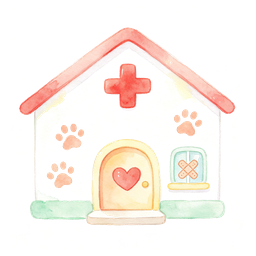
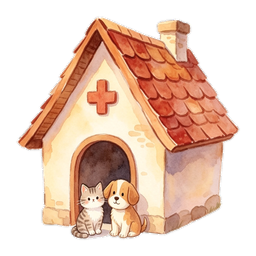
建筑icon重绘(豪宅/商铺/市政厅/医院/花园)对齐工厂小屋风格;套餐栏电脑端两列;河岸放置点避开水域整体上移

diff --git a/index.html b/index.html
@@ -411,7 +411,8 @@
   .shopElCard .infoBtn{position:absolute;bottom:2px;right:2px;width:18px;height:18px;background:var(--solid-panel2);color:var(--gold);border:1px solid var(--gold);border-radius:50%;font-size:10px;cursor:pointer;line-height:1;display:flex;align-items:center;justify-content:center;padding:0;z-index:2;}
   .shopElCard .lockMark{position:absolute;top:2px;right:2px;width:20px;height:20px;font-size:12px;display:flex;align-items:center;justify-content:center;opacity:.75;}
   /* 套餐栏 */
-  .shopBundleGrid{display:grid;grid-template-columns:repeat(auto-fill,minmax(150px,1fr));gap:10px;}
+  .shopBundleGrid{display:grid;grid-template-columns:repeat(2,1fr);gap:10px;}
+  @media(max-width:600px){.shopBundleGrid{grid-template-columns:1fr;}}
   .shopBundleCard{background:var(--panel2);border:1px solid var(--line);border-radius:10px;padding:10px;cursor:pointer;transition:border-color .15s;text-align:center;}
   .shopBundleCard:hover{border-color:var(--gold);}
   .shopBundleCard .bundleHead{font-size:13px;font-weight:700;color:var(--text);margin-bottom:6px;}
@@ -1181,8 +1182,8 @@ const BUILDABLE_POINTS = {
   hill:   [[76,65,5],[36,48,4],[9,60,2],[63,17,5],[87,19,-5],[55,75,-5]],
   forest: [[68,56,5],[32,36,-4],[85,76,5],[15,24,5],[50,78,-5],[82,22,4],[50,24,-5],[18,76,-4]],
   center: [[22,20,-3],[42,18,-3],[58,20,4],[78,18,-2],[24,50,5],[42,48,-3],[58,52,5],[76,50,5],[22,80,4],[42,82,3],[58,80,-5],[78,82,3]],
-  river:  [[23,63,-5],[44,63,2],[55,55,4],[32,17,5],[72,28,-5],[10,19,4],[58,20,-4],[75,45,-3]],
-  factory:[[12,78,3],[32,72,-2],[52,82,3],[72,74,-2],[90,80,3]],
+  river:  [[8,40,5],[26,40,-4],[44,40,4],[60,42,-3],[16,78,-5],[34,78,4],[76,44,3],[92,46,-4]],
+  factory:[[12,86,3],[32,83,-2],[52,84,3],[72,87,-2],[90,85,3]],
 };
 let signAnimated=false; // 路牌首次立起动画标记
 const regionOf = id => REGIONS.find(r=>r.id===id) || REGIONS[0];
@@ -3426,7 +3427,7 @@ function renderBuildingDetail(){
   const hallBonusVal=bid==="hall"?10:0;
   box.innerHTML=`
     <div class="bldDetailHeader">
-      <div class="bldDetailIcon"><img src="${assetCache.get("buildings:"+b.id)||`assets/buildings/${b.id}.png?v=20260902`}" width="48" height="48" style="object-fit:contain" onerror="this.outerHTML='${b.i}'" alt="${b.n}"></div>
+      <div class="bldDetailIcon"><img src="${assetCache.get("buildings:"+b.id)||`assets/buildings/${b.id}.png?v=20260904`}" width="48" height="48" style="object-fit:contain" onerror="this.outerHTML='${b.i}'" alt="${b.n}"></div>
       <div>
         <div class="bldDetailName">${customName}</div>
         <div class="bldDetailType">${bldName(b)} ${b.passive?`· ${LANG==="en"?b.passiveEn:b.passive}`:`· 💰+${Math.round(income)}/${INCOME_INTERVAL}s`}</div>
@@ -3658,13 +3659,13 @@ function buildingUnlocked(b){
 function buildingLockHint(b){
   const has=id=>(S.buildings[id]||0)>0;
   const _lockIconStyle="width:16px;height:16px;vertical-align:middle;object-fit:contain;background:transparent;";
-  const hutImg=`<img src="assets/buildings/hut.png" style="${_lockIconStyle}">`;
-  const shopImg=`<img src="assets/buildings/shop.png" style="${_lockIconStyle}">`;
-  const gardenImg=`<img src="assets/buildings/garden.png" style="${_lockIconStyle}">`;
-  const manorImg=`<img src="assets/buildings/manor.png" style="${_lockIconStyle}">`;
-  const stationImg=`<img src="assets/buildings/station.png" style="${_lockIconStyle}">`;
-  const hospitalImg=`<img src="assets/buildings/hospital.png" style="${_lockIconStyle}">`;
-  const factoryImg=`<img src="assets/buildings/factory.png" style="${_lockIconStyle}">`;
+  const hutImg=`<img src="assets/buildings/hut.png?v=20260904" style="${_lockIconStyle}">`;
+  const shopImg=`<img src="assets/buildings/shop.png?v=20260904" style="${_lockIconStyle}">`;
+  const gardenImg=`<img src="assets/buildings/garden.png?v=20260904" style="${_lockIconStyle}">`;
+  const manorImg=`<img src="assets/buildings/manor.png?v=20260904" style="${_lockIconStyle}">`;
+  const stationImg=`<img src="assets/buildings/station.png?v=20260904" style="${_lockIconStyle}">`;
+  const hospitalImg=`<img src="assets/buildings/hospital.png?v=20260904" style="${_lockIconStyle}">`;
+  const factoryImg=`<img src="assets/buildings/factory.png?v=20260904" style="${_lockIconStyle}">`;
   if(b.id==="garden"||b.id==="manor") return LANG==="en"?`Need ${hutImg}Hut + ${shopImg}Shop`:`需要${hutImg}小屋+${shopImg}商店`;
   if(b.id==="station"||b.id==="hospital") return LANG==="en"?`Need ${hutImg}Hut or ${shopImg}Shop`:`需要${hutImg}小屋或${shopImg}商店`;
   if(b.id==="factory") return LANG==="en"?`Need ${hutImg}Hut + ${shopImg}Shop`:`需要${hutImg}小屋+${shopImg}商店`;
@@ -4659,7 +4660,7 @@ function renderMap(){
   });
   const bc={};
   Object.values(S.plots).flat().forEach(p=>{if(p&&p!==null)bc[p]=(bc[p]||0)+1;});
-  const badges=Object.entries(bc).map(([bid,n])=>{const b=BUILDINGS.find(x=>x.id===bid);const bldUrl=assetCache.get("buildings:"+bid)||`assets/buildings/${bid}.png?v=20260902`;return `<span class="mapBadge"><img src="${bldUrl}" style="width:22px;height:22px;object-fit:contain;vertical-align:middle;background:transparent;" onerror="this.outerHTML='${b?b.i:"❓"}'" alt="${b?b.n:""}"><b>${n}</b></span>`;}).join("")||`<span style="font-size:11px;color:var(--dim)">${t("town.noBuildings")}</span>`;
+  const badges=Object.entries(bc).map(([bid,n])=>{const b=BUILDINGS.find(x=>x.id===bid);const bldUrl=assetCache.get("buildings:"+bid)||`assets/buildings/${bid}.png?v=20260904`;return `<span class="mapBadge"><img src="${bldUrl}" style="width:22px;height:22px;object-fit:contain;vertical-align:middle;background:transparent;" onerror="this.outerHTML='${b?b.i:"❓"}'" alt="${b?b.n:""}"><b>${n}</b></span>`;}).join("")||`<span style="font-size:11px;color:var(--dim)">${t("town.noBuildings")}</span>`;
   let hint="";
   if(moveMode) hint=`<div style="background:#4cd97b22;border:1px solid #4cd97b;border-radius:8px;padding:6px 10px;margin-bottom:8px;font-size:12px;">${t("town.moveMode")} <button onclick="cancelSelection()" style="background:none;border:none;color:#4cd97b;cursor:pointer;text-decoration:underline;font-size:12px;">${t("town.cancel")}</button></div>`;
   else if(selectedPlot) hint=`<div style="background:var(--gold)22;border:1px solid var(--gold);border-radius:8px;padding:6px 10px;margin-bottom:8px;font-size:12px;">${t("town.selectedPlot",regionOf(selectedPlot.region).i,regName(regionOf(selectedPlot.region)))} <button onclick="cancelSelection()" style="background:none;border:none;color:var(--gold);cursor:pointer;text-decoration:underline;font-size:12px;">${t("town.cancel")}</button></div>`;
@@ -4700,7 +4701,7 @@ function renderMap(){
     const ti=assetCache.get("regions:"+r.id);
     const defaultBg=`assets/regions/${r.id}.png?v=20260902`;
     const plots=S.plots[r.id]||[];
-    const bldSize=r.plots<=6?42:r.plots<=8?38:32;
+    const bldSize=(r.plots<=6?42:r.plots<=8?38:32)*2;
     const emojiPx=Math.round(bldSize*0.7);
     const points=BUILDABLE_POINTS[r.id]||[];
     // 构建建筑槽
@@ -4721,7 +4722,7 @@ function renderMap(){
         const b=BUILDINGS.find(x=>x.id===p);
         const key=r.id+"_"+i;
         tip=b?((S.buildingNames&&S.buildingNames[key])||bldName(b)):"";
-        const bldUrl=assetCache.get("buildings:"+p)||`assets/buildings/${p}.png?v=20260902`;
+        const bldUrl=assetCache.get("buildings:"+p)||`assets/buildings/${p}.png?v=20260904`;
         const em=b?b.i:"❓";
         inner=`<img src="${bldUrl}" width="${bldSize}" style="filter:drop-shadow(0 3px 4px rgba(0,0,0,.45));transform:rotate(${rot}deg)" onerror="bldImgError(this,'${em}',${emojiPx})" alt="${b?b.n:''}">`;
       }
@@ -4827,7 +4828,7 @@ function renderShop(){
     const lockNote=!unlocked?`<div class="buildLockNote">🔒 ${buildingLockHint(b)}</div>`:"";
     const placeLockNote=!placeOk?`<div class="buildLockNote">${placeNote}</div>`:"";
     const hallNote=hallFull?`<span style="color:var(--dim);font-size:11px">${LANG==="en"?"(Max 2 City Halls)":"(最多2个市政厅)"}</span>`:b.id==="hall"&&(S.buildings.hall||0)===1?`<span style="color:var(--gold);font-size:11px">${LANG==="en"?"(2nd: ×1.5 cost)":"(第二个成本×1.5)"}</span>`:"";
-    const bldImg=assetCache.get("buildings:"+b.id)||`assets/buildings/${b.id}.png?v=20260902`;
+    const bldImg=assetCache.get("buildings:"+b.id)||`assets/buildings/${b.id}.png?v=20260904`;
     div.innerHTML=`<div class="top"><span class="ico"><img src="${bldImg}" width="32" height="32" style="object-fit:contain;vertical-align:middle" onerror="this.outerHTML='${b.i}'" alt="${b.n}"></span><span class="nm">${bldName(b)}</span><span class="built">${t("town.built",built)} · ${b.passive?`🏛 ${LANG==="en"?b.passiveEn:b.passive}`:`💰+${Math.round(incPer)}/${INCOME_INTERVAL}s`}</span>${hallNote}</div>${lockNote}${placeLockNote}<div class="cost">${costHtml}</div><button class="buildBtn" ${canBuild?"":"disabled"}>${t("town.buildBtn")}</button>`;
     div.querySelector(".buildBtn").addEventListener("click",()=>build(b,cost));
     box.appendChild(div);
